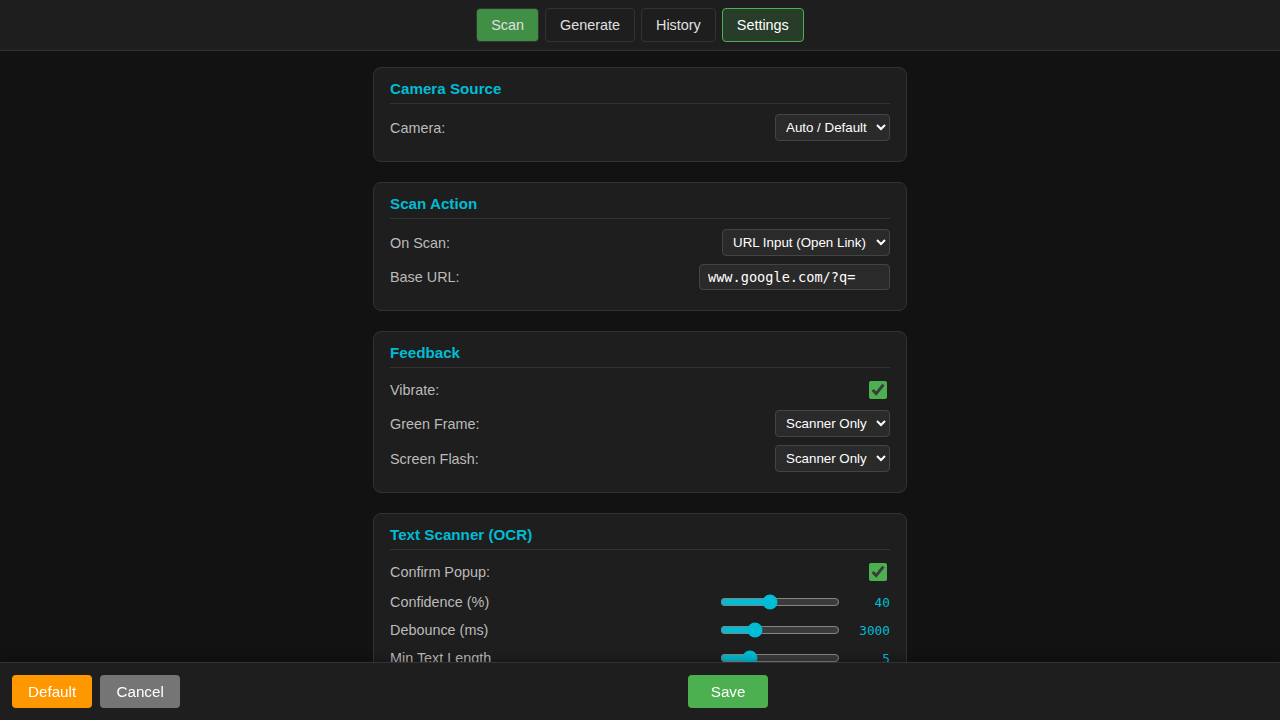
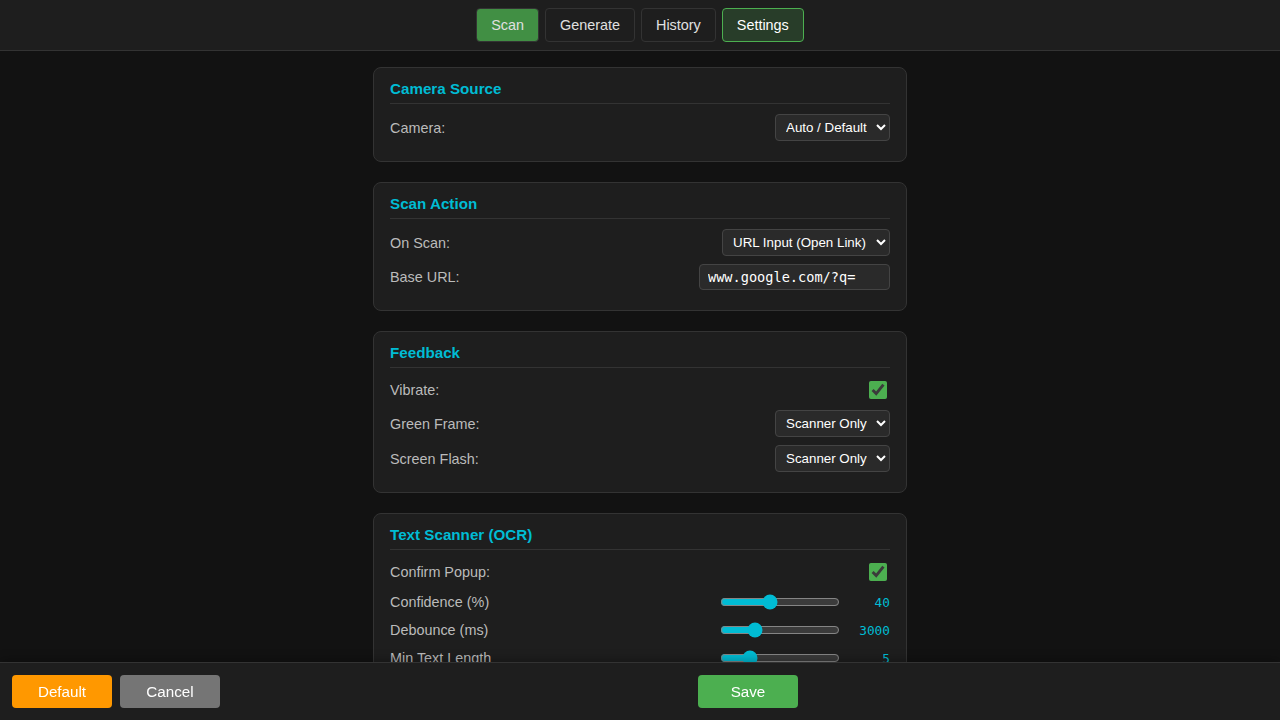
Fix Settings Footer Buttons Sizing
- Set fixed width (100px) for Settings footer buttons (Default, Cancel, Save) to ensure uniform size.
- Maintained grouped and centered layout.

Changed region(s): [[0.0312, 0.9167, 0.1875, 1.0], [0.5312, 0.9167, 0.625, 1.0]]

diff --git a/projects/input-a11y/css/style.css b/projects/input-a11y/css/style.css
@@ -613,9 +613,8 @@ button {
 }
 
 .settings-footer button {
-    flex: 0 1 auto;
-    min-width: 80px;
-    max-width: 140px;
+    flex: 0 0 auto;
+    width: 100px;
 }
 
 .warning-btn {
